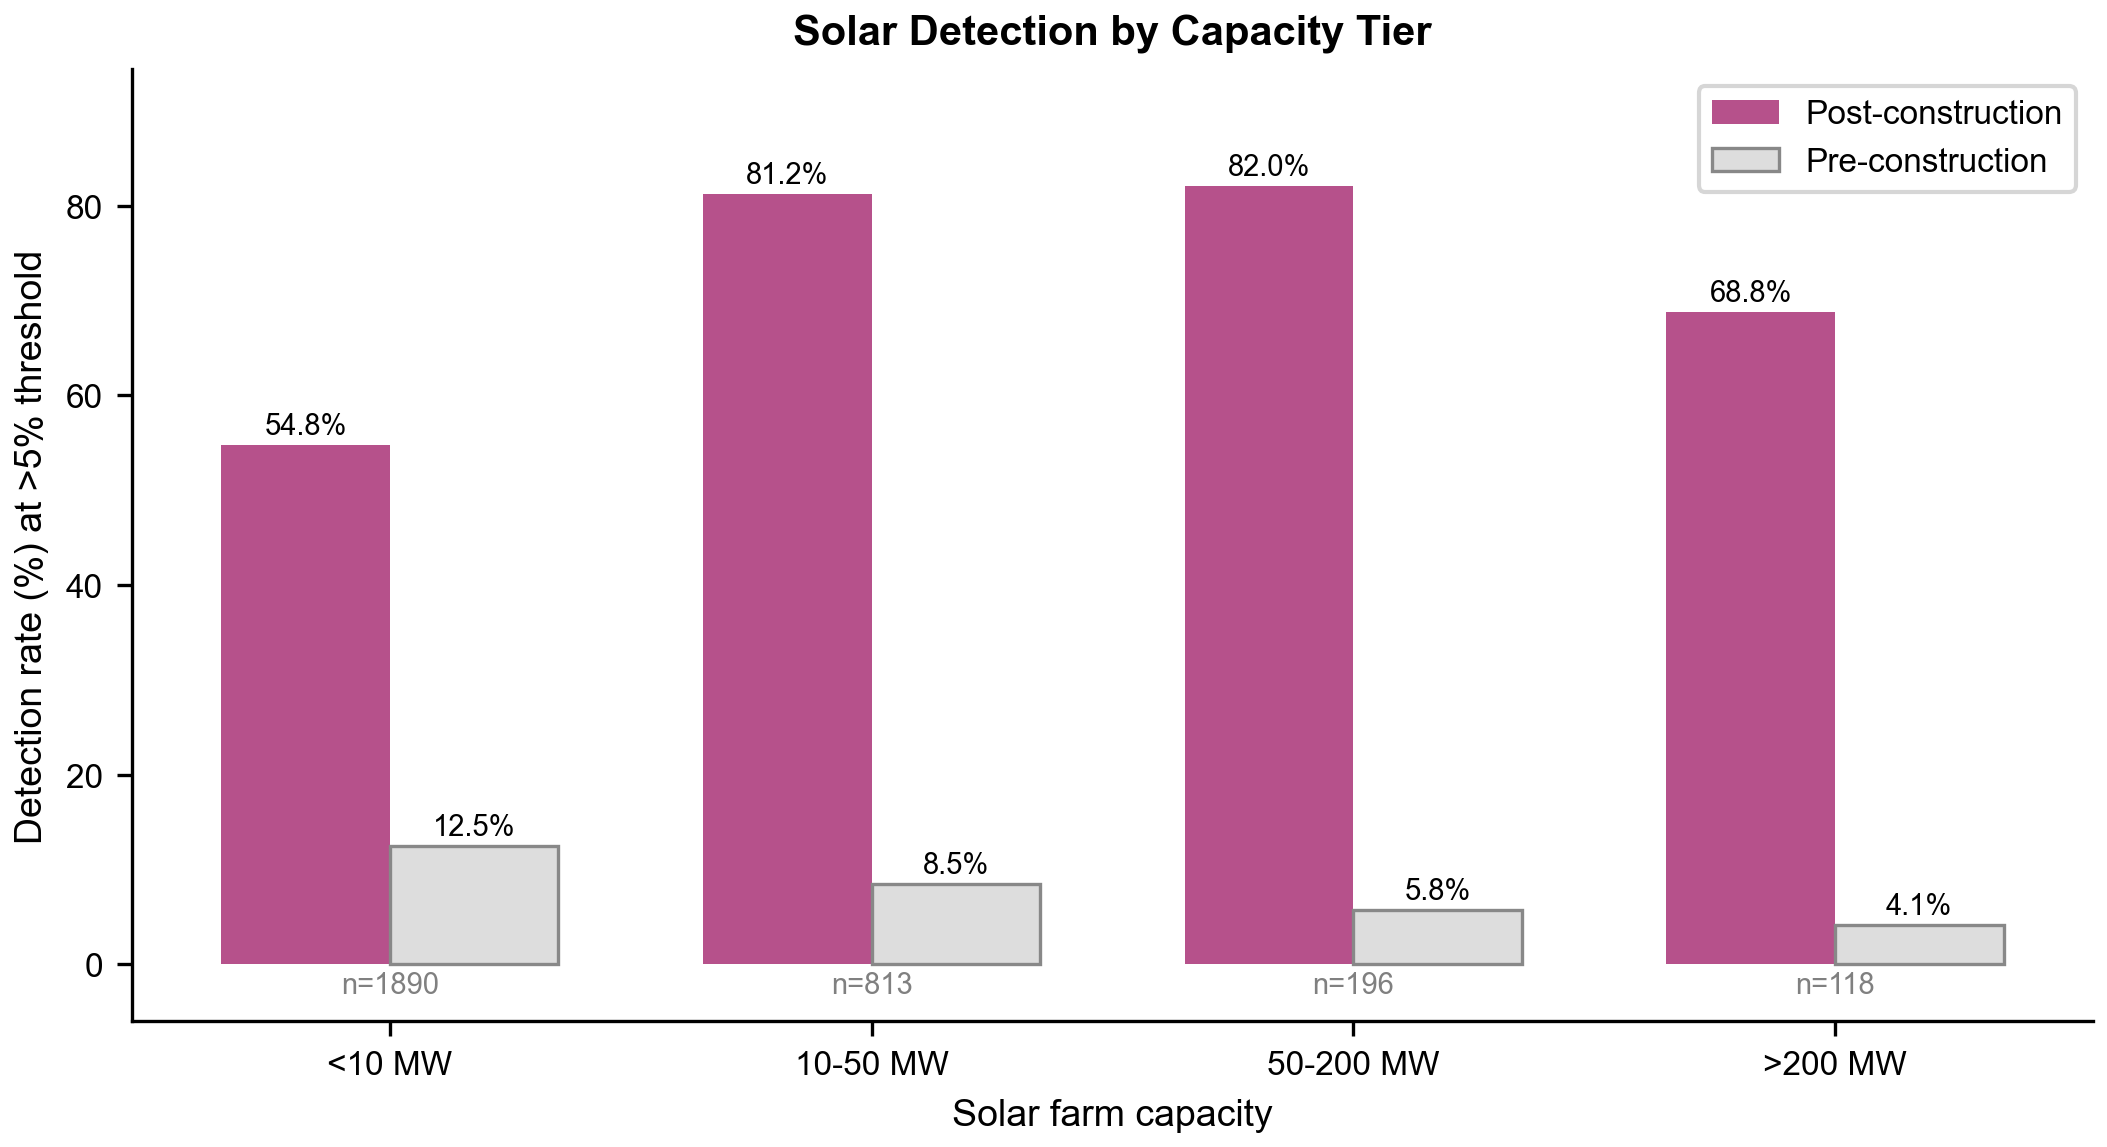
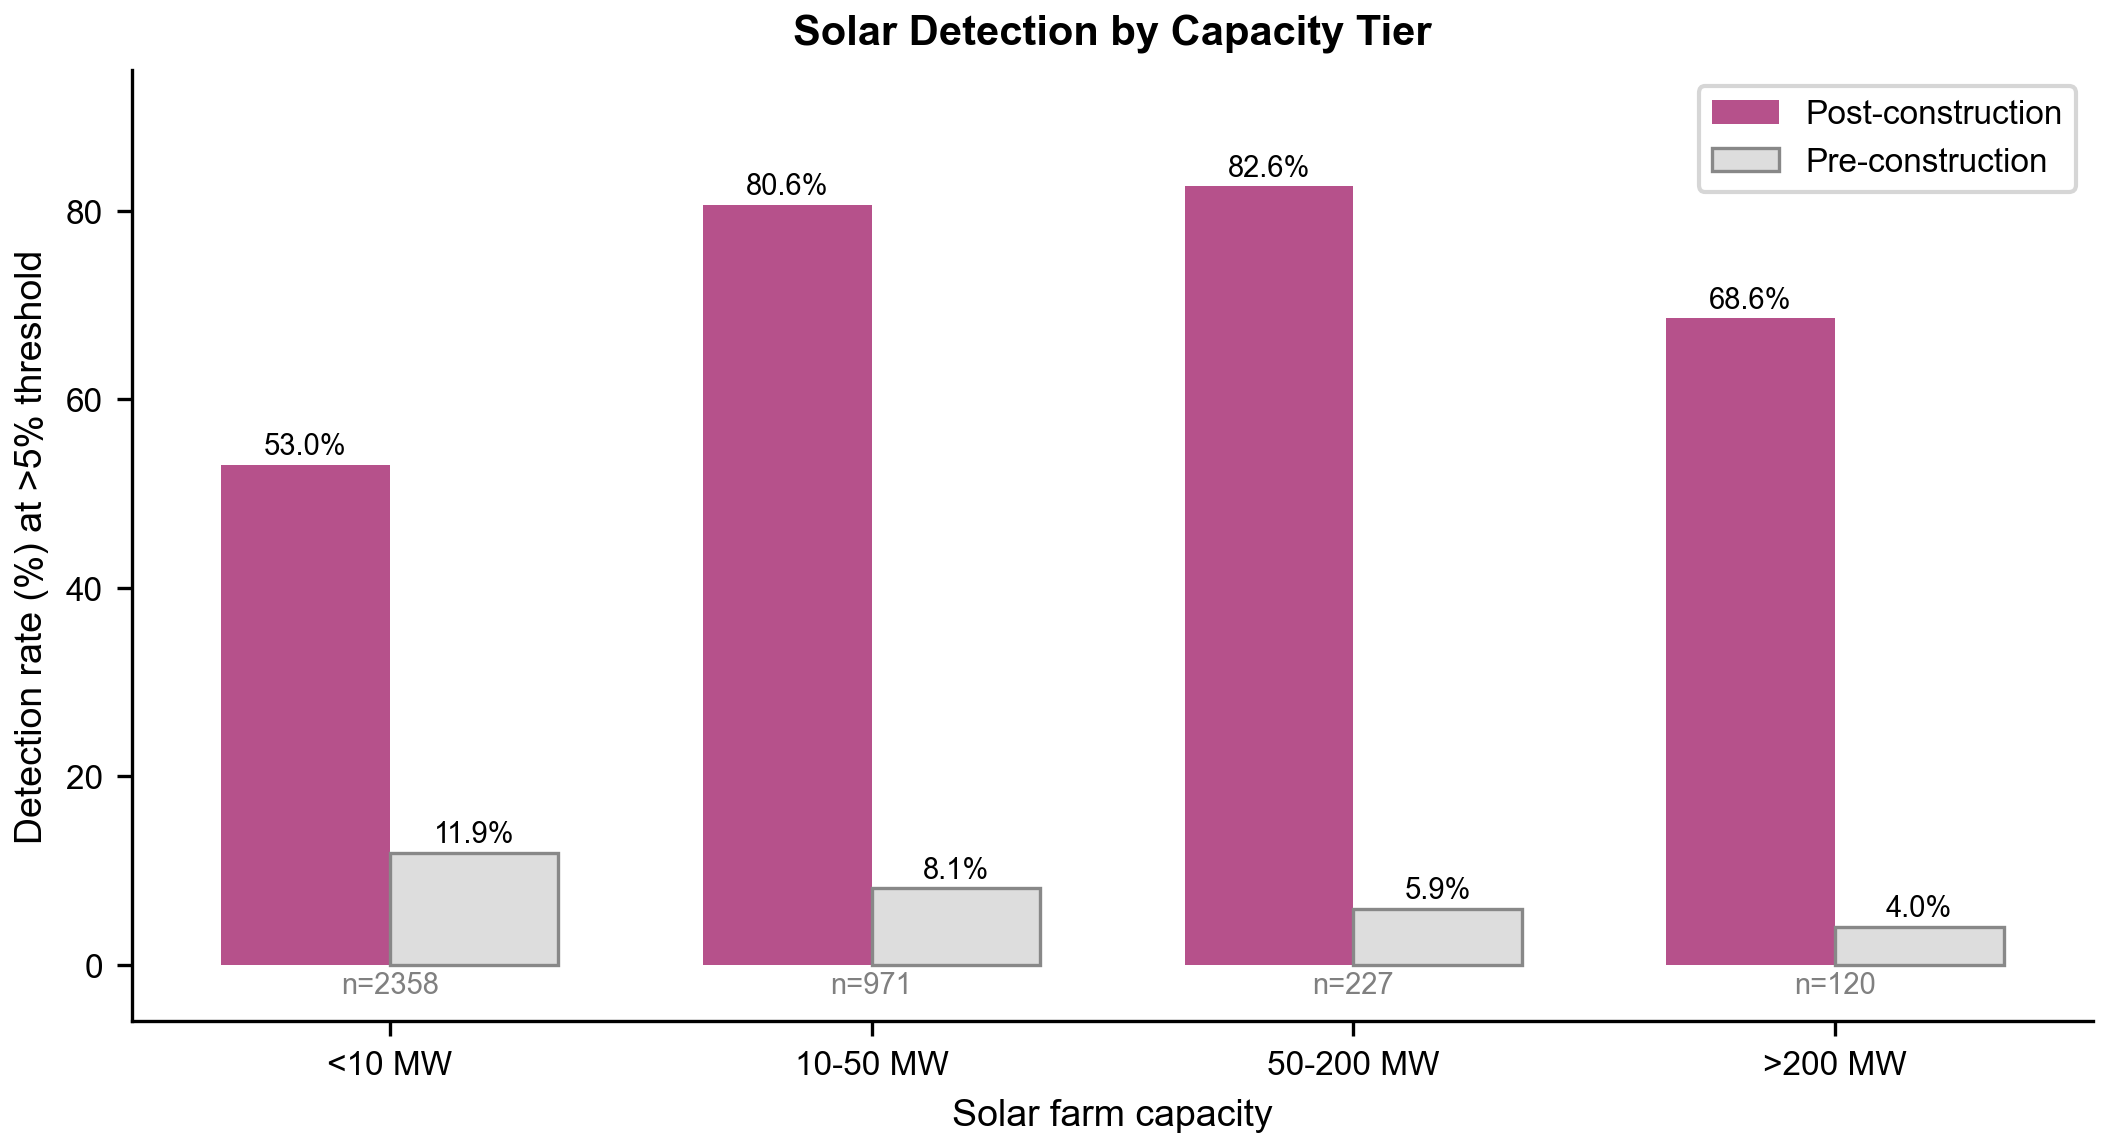
Complete VLM coverage (36,164/36,166), regenerate all figures
- VLM success rate now 99.99% (was 79.8%), covers all 3,469 sites
- VLM solar +9.75 pp post-construction (pre-trends p=0.30)
- All event study and VLM figures regenerated with complete data
- Fixed study area map: correct site counts, linear capacity scale

diff --git a/scripts/paper_figures.py b/scripts/paper_figures.py
@@ -278,11 +278,22 @@ def run_event_study(panel, outcome, site_ids=None):
 # ═══════════════════════════════════════════════════════════════════════════════
 def fig1_study_area():
     print('  Generating Fig 1: Study area ...')
+    import geopandas as gpd
+
+    # Load only sites that appear in the event study panel
+    panel = load_panel()
+    panel_site_ids = set(panel['site_id'].unique())
+    print(f'    Panel sites: {len(panel_site_ids)}')
+
     sites = load_sites()
+    sites_lookup = {s['site_id']: s for s in sites if 'site_id' in s}
 
     lats, lons, caps, countries = [], [], [], []
     cyears = []
-    for s in sites:
+    for sid in panel_site_ids:
+        s = sites_lookup.get(sid)
+        if s is None:
+            continue
         lat = s.get('centroid_lat') or s.get('lat')
         lon = s.get('centroid_lon') or s.get('lon')
         if lat is None or lon is None:
@@ -296,30 +307,48 @@ def fig1_study_area():
             cyears.append(cy)
 
     df = pd.DataFrame({'lat': lats, 'lon': lons, 'cap': caps, 'country': countries})
+    print(f'    Sites per country: {df["country"].value_counts().to_dict()}')
+
+    # Load Natural Earth country boundaries
+    with warnings.catch_warnings():
+        warnings.simplefilter('ignore', FutureWarning)
+        world = gpd.read_file(gpd.datasets.get_path('naturalearth_lowres'))
 
     fig = plt.figure(figsize=(FULL_WIDTH, FULL_WIDTH * 1.1))
     gs = fig.add_gridspec(2, 2, height_ratios=[1.4, 1], hspace=0.3, wspace=0.3)
 
     # Panel (a): Map
     ax_map = fig.add_subplot(gs[0, :])
-    for country, grp in df.groupby('country'):
+
+    # Draw ocean background (white) and land fill (light gray)
+    ax_map.set_facecolor('#f0f4f8')  # pale blue-gray for ocean
+    world.plot(ax=ax_map, color='#ededed', edgecolor='#999999', linewidth=0.4)
+
+    # Highlight South Asian countries with slightly different fill
+    sa_names = ['India', 'Pakistan', 'Bangladesh', 'Sri Lanka', 'Nepal', 'Bhutan',
+                'Myanmar (Burma)', 'Myanmar', 'Afghanistan', 'China']
+    sa = world[world['name'].isin(sa_names)]
+    sa.plot(ax=ax_map, color='#e0ddd5', edgecolor='#777777', linewidth=0.5)
+
+    # Plot site scatter on top (sorted so smaller countries render on top)
+    for country, grp in sorted(df.groupby('country'), key=lambda x: -len(x[1])):
         color = COUNTRY_COLORS.get(country, '#999999')
         sizes = np.clip(grp['cap'].values * 0.3, 3, 80)
         ax_map.scatter(grp['lon'], grp['lat'], s=sizes, c=color,
                        alpha=0.55, edgecolors='white', linewidths=0.3,
-                       label=f"{country} (n={len(grp)})")
+                       label=f"{country} (n={len(grp):,})", zorder=5)
 
     ax_map.set_xlim(60, 98)
     ax_map.set_ylim(5, 38)
     ax_map.set_xlabel('Longitude')
     ax_map.set_ylabel('Latitude')
     ax_map.set_title('(a) Solar installation sites across South Asia')
-    ax_map.legend(fontsize=7, loc='upper left', frameon=True, framealpha=0.9)
+    # Remove lat/lon gridlines
+    ax_map.grid(False)
+    # Place legend over Indian Ocean (bottom-left of map)
+    ax_map.legend(fontsize=7, loc='lower left', frameon=True, framealpha=0.9,
+                  bbox_to_anchor=(0.0, 0.0))
     ax_map.set_aspect('equal')
-
-    # Draw approximate country outlines as a simple bounding context
-    # Just add a light grey box for the region
-    ax_map.axhline(y=8, color='#cccccc', linewidth=0.3)
 
     # Panel (b): Construction year histogram
     ax_yr = fig.add_subplot(gs[1, 0])
@@ -331,14 +360,11 @@ def fig1_study_area():
     ax_yr.set_ylabel('Number of Sites')
     ax_yr.set_title('(b) Construction year distribution')
 
-    # Panel (c): Capacity histogram (log scale)
+    # Panel (c): Capacity histogram (linear scale)
     ax_cap = fig.add_subplot(gs[1, 1])
     caps_arr = np.array([c for c in caps if c > 0])
-    bins_cap = np.logspace(np.log10(max(caps_arr.min(), 0.1)),
-                           np.log10(caps_arr.max()), 30)
-    ax_cap.hist(caps_arr, bins=bins_cap, color=_TOL_MUTED['teal'], edgecolor='white',
+    ax_cap.hist(caps_arr, bins=30, color=_TOL_MUTED['teal'], edgecolor='white',
                 linewidth=0.5)
-    ax_cap.set_xscale('log')
     ax_cap.set_xlabel('Capacity (MW)')
     ax_cap.set_ylabel('Number of Sites')
     ax_cap.set_title('(c) Capacity distribution')
